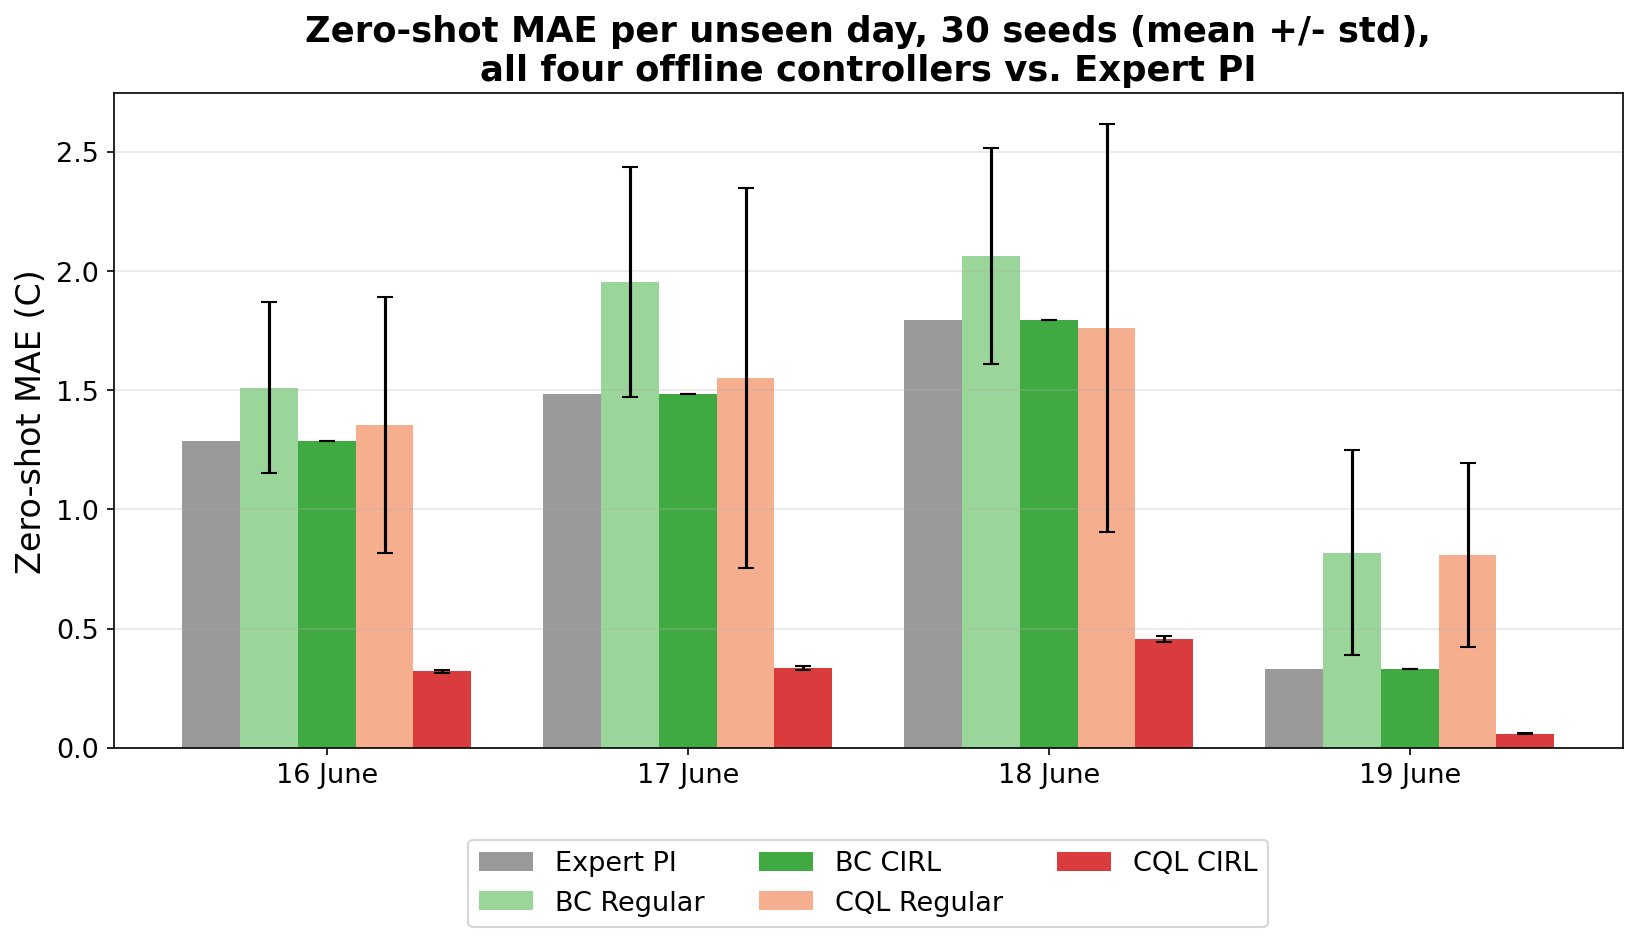
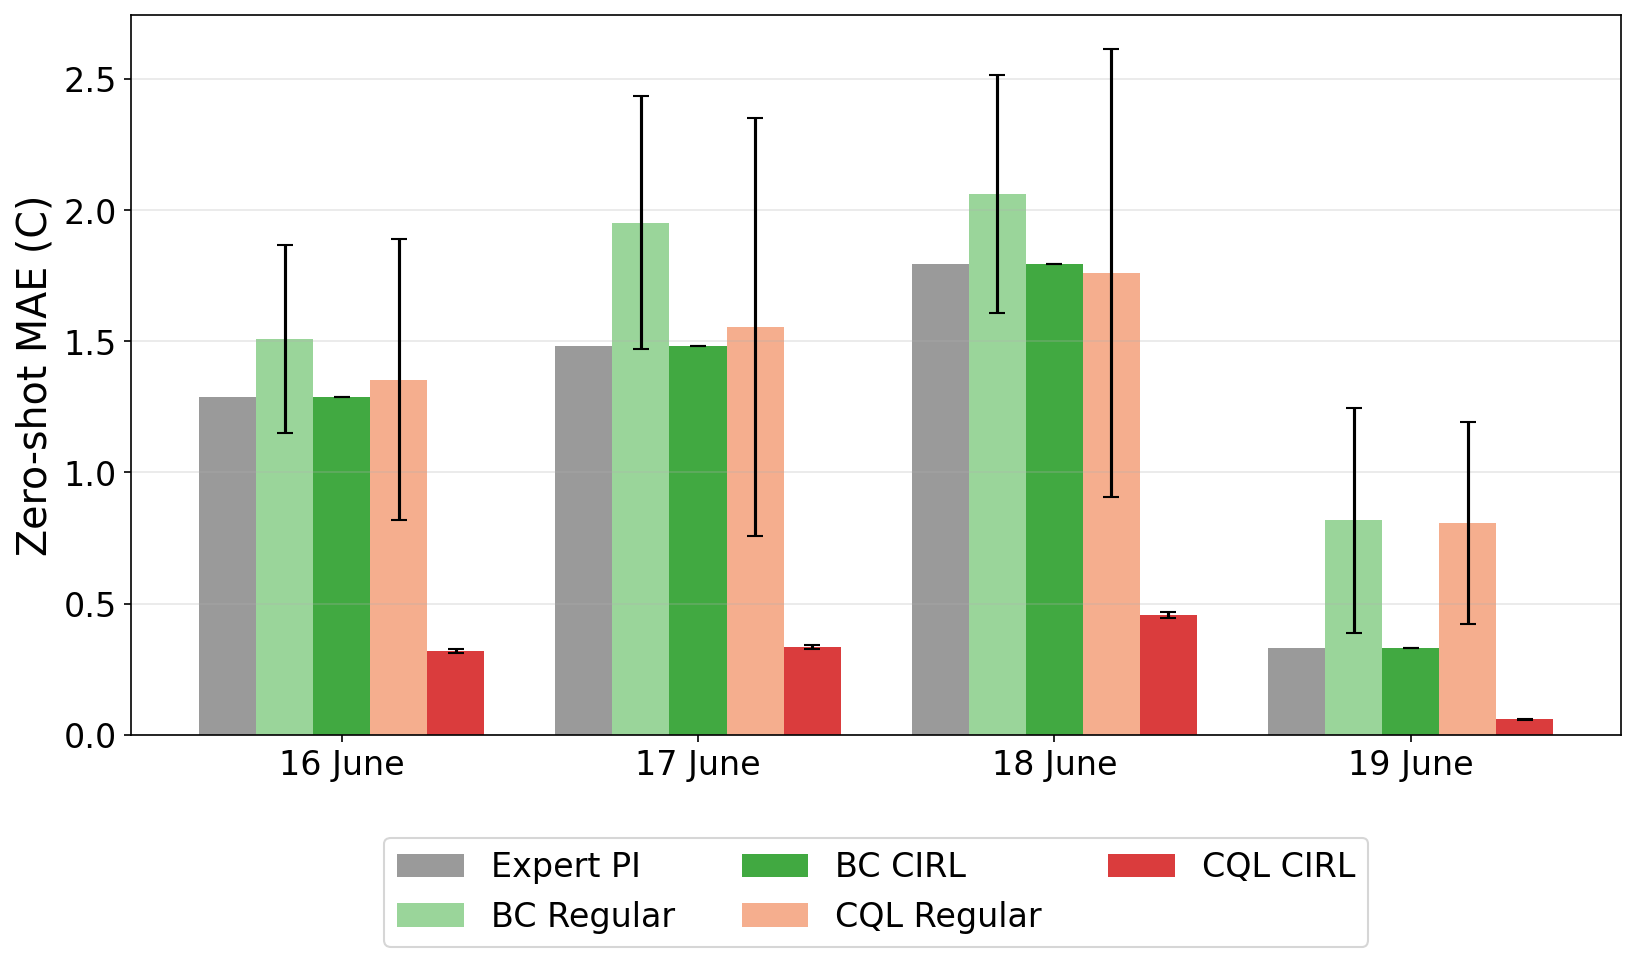
fix(charts): remove redundant titles, enlarge Figure 2 text further
Drop the descriptive overall title/suptitle from each script's output
(duplicated the report's LaTeX caption, consumed vertical space), keeping
only the per-panel box-name labels needed to distinguish subplots. Bump
Figure 2's axis-label, tick, and legend font sizes further.

diff --git a/BC vs CQL Comparison/multiseed/generate_fourway_per_day.py b/BC vs CQL Comparison/multiseed/generate_fourway_per_day.py
@@ -58,13 +58,11 @@ for i, name in enumerate(ORDER, start=1):
            color=COLORS[name], alpha=0.9)
 
 ax.set_xticks(x)
-ax.set_xticklabels(DAYS, fontsize=14)
-ax.set_ylabel("Zero-shot MAE (C)", fontsize=16)
-ax.set_title("Zero-shot MAE per unseen day, 30 seeds (mean +/- std),\n"
-             "all four offline controllers vs. Expert PI", fontsize=17, fontweight="bold")
-ax.tick_params(axis="both", labelsize=13)
+ax.set_xticklabels(DAYS, fontsize=18)
+ax.set_ylabel("Zero-shot MAE (C)", fontsize=19)
+ax.tick_params(axis="both", labelsize=16)
 ax.grid(axis="y", alpha=0.3)
-ax.legend(fontsize=13, ncol=3, loc="upper center", bbox_to_anchor=(0.5, -0.12))
+ax.legend(fontsize=16, ncol=3, loc="upper center", bbox_to_anchor=(0.5, -0.12))
 
 fig.tight_layout()
 

diff --git a/Online ActorCritic Finetune/_reward_grid_figure.py b/Online ActorCritic Finetune/_reward_grid_figure.py
@@ -15,8 +15,8 @@ for j, box in enumerate(BOXES):
         df = pd.read_csv(f'charts/Best_{algo}_{approach}_{box}BoxPolicy_history.csv')
         a.plot(df.ep, df.train_reward, label='train')
         a.plot(df.ep, df.val_reward, label='val')
-        a.set_title(f'{BOX_TITLES[box]}\nReward' if i == 0 else 'Reward',
-                    fontsize=20 if i == 0 else 13, fontweight='bold' if i == 0 else 'normal')
+        if i == 0:
+            a.set_title(BOX_TITLES[box], fontsize=20, fontweight='bold')
         a.set_xlabel('episode', fontsize=12)
         a.set_ylim(*YLIM)
         a.grid(alpha=.3)

diff --git a/Online ActorCritic Finetune/generate_seed13_tout_grid.py b/Online ActorCritic Finetune/generate_seed13_tout_grid.py
@@ -104,7 +104,6 @@ for row, (box, ax) in enumerate(zip(['Narrow', 'Mid', 'Wide'], axes)):
     ax.set_title(f'{box} box (seed={SEED})', fontsize=16, fontweight='bold')
     print(f"[{box}] done: n={n} steps")
 
-fig.suptitle(f'Zero-shot generalisation, stream seed {SEED}: T_out tracking', fontsize=16)
 fig.tight_layout()
 
 out_dir = os.path.join(CHART_DIR, 'randstream_multiseed')
